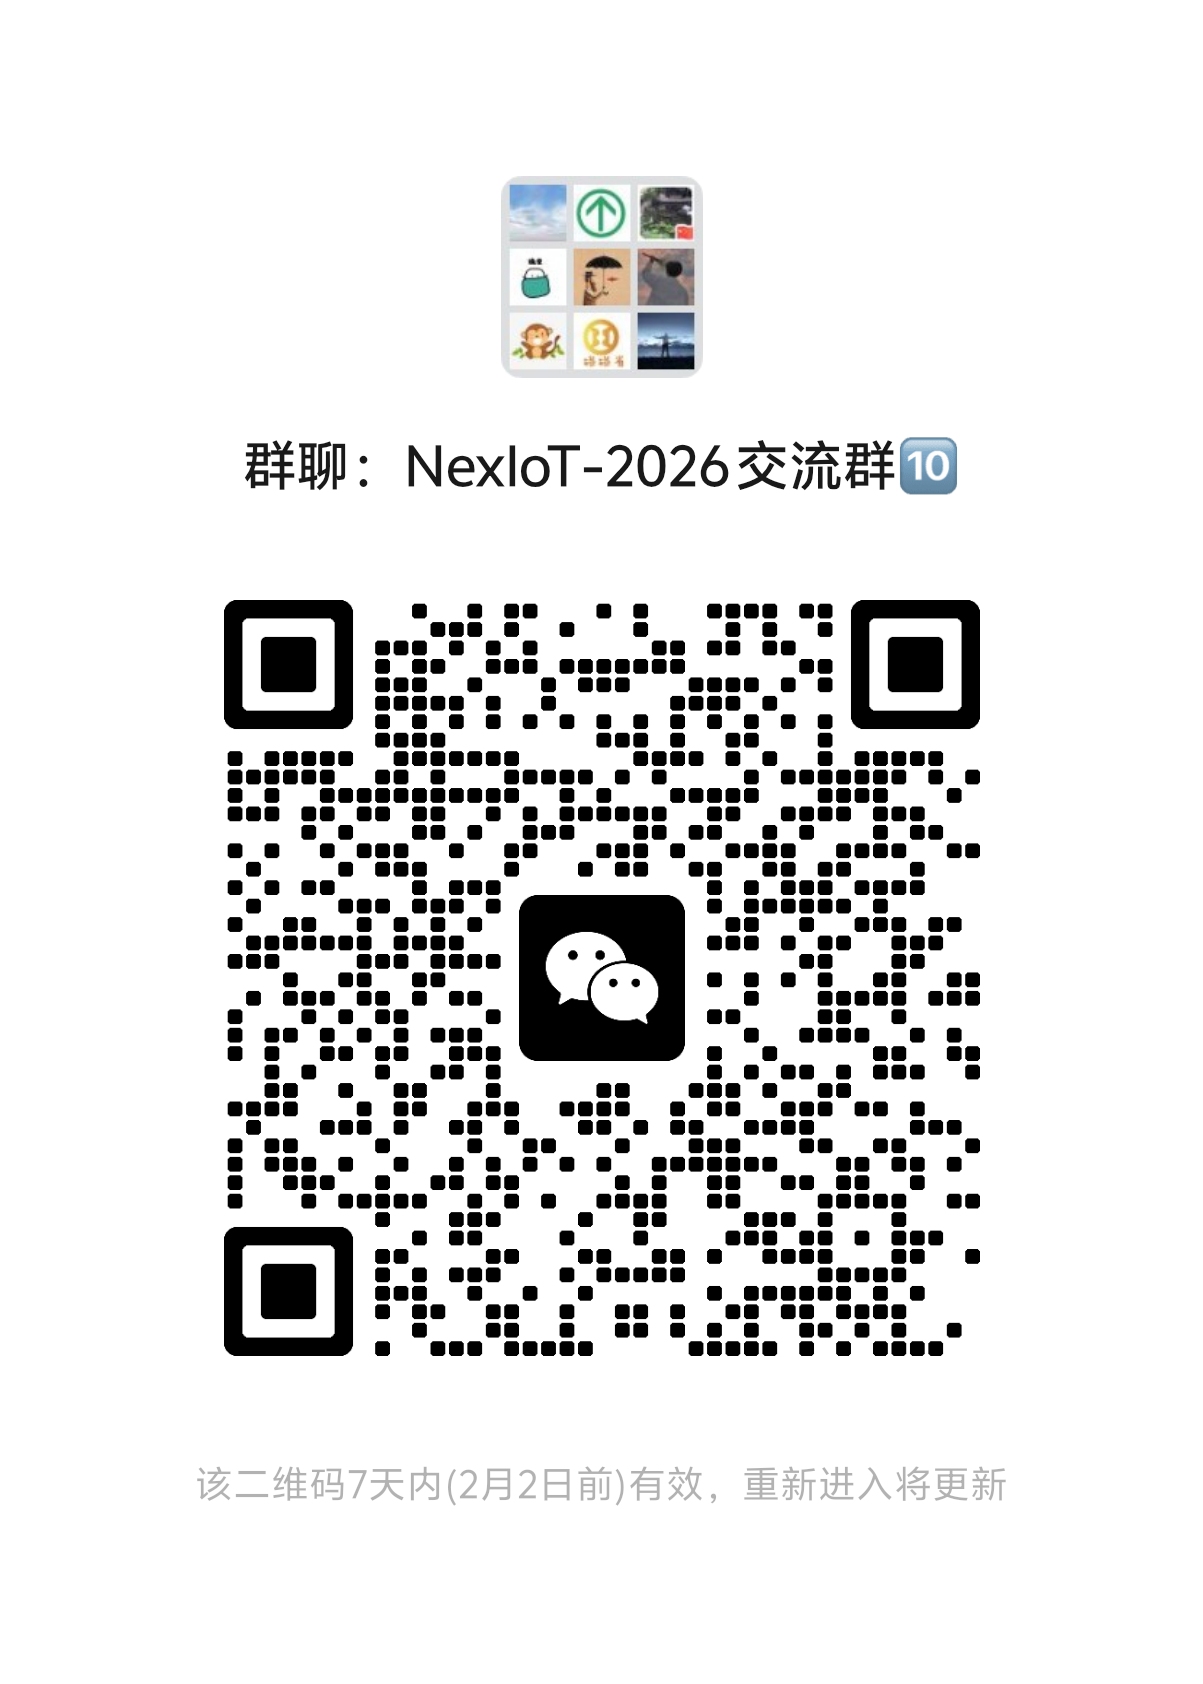
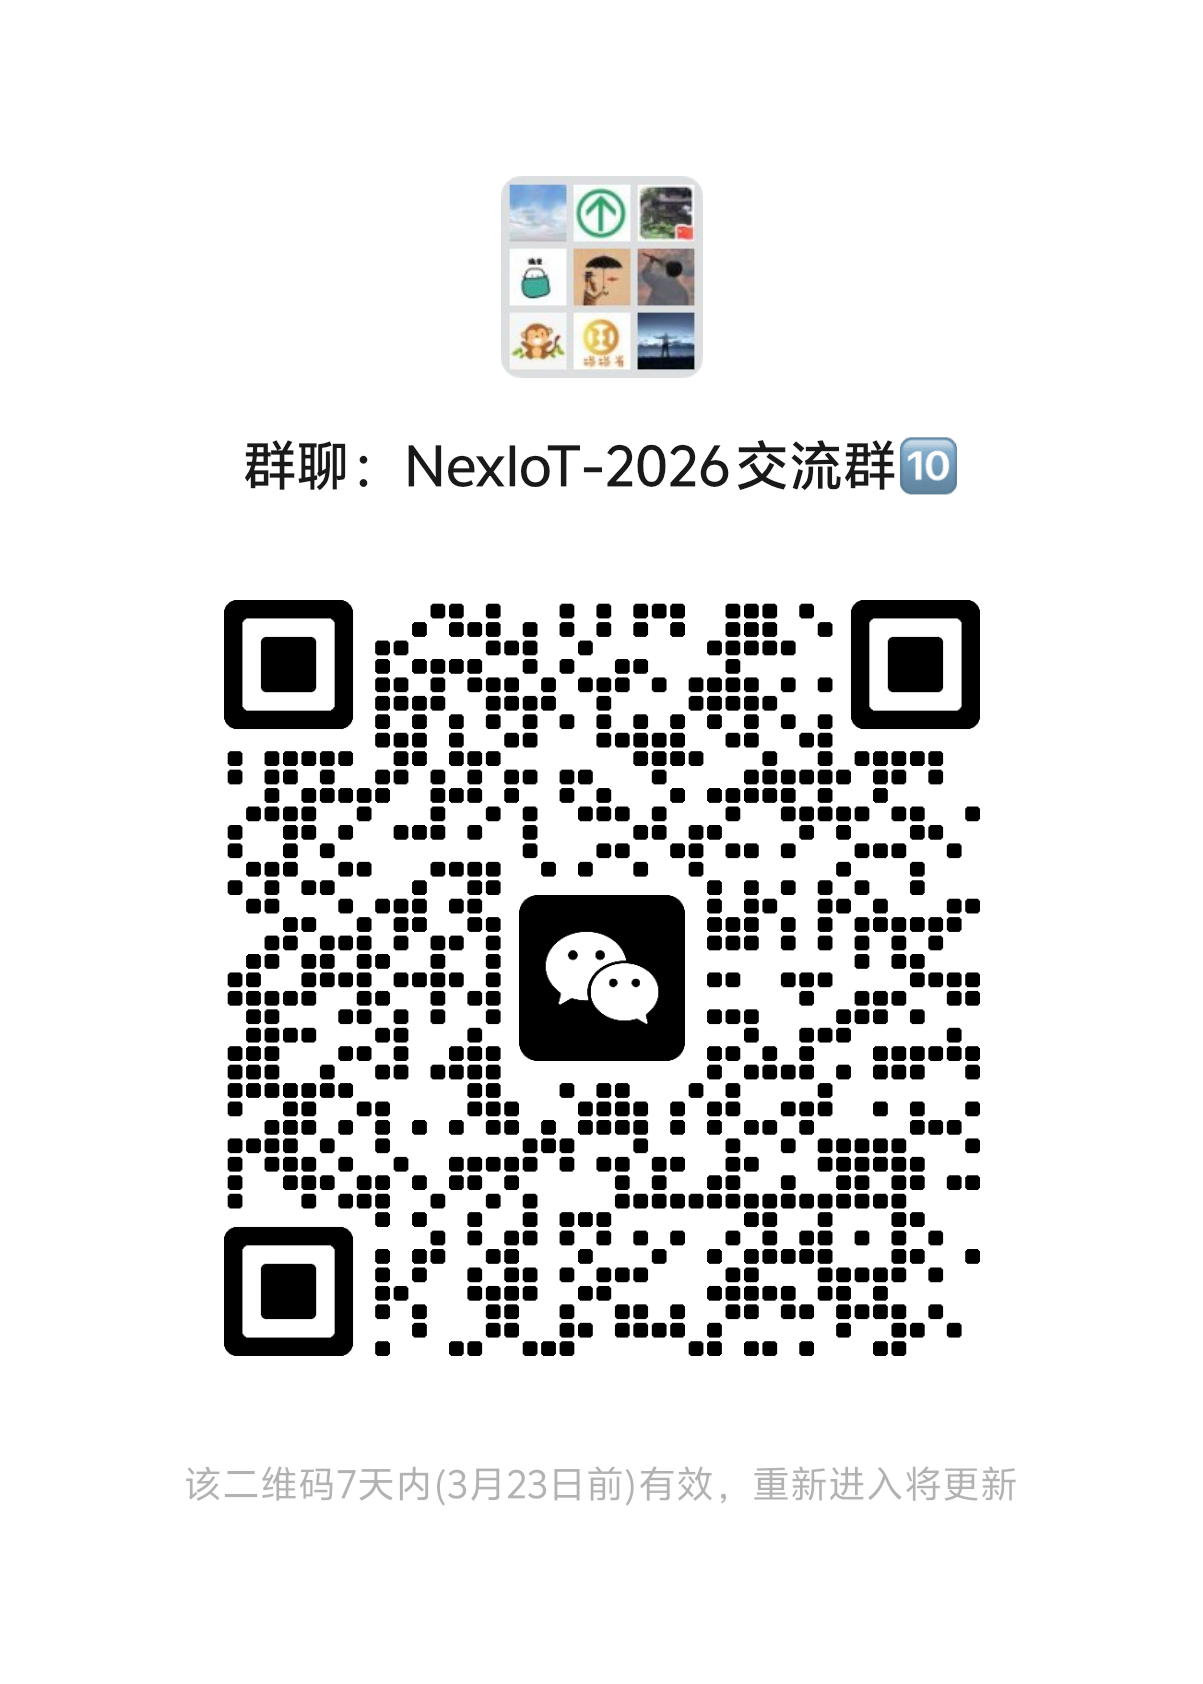
docs(readme): 更新项目路线图与演示信息

diff --git a/README.md b/README.md
@@ -80,10 +80,8 @@
 - **🚀 海康综合安防管理平台**：使用海康平台产品系列集成`（无环境，延期中）`
 - **📱 移动端应用（计划25年12月）**：付费图鸟定小程序，具备指令控制、属性、告警查看，轻量化、多管理员`✅（202512月beta已完成）`
 - **📱 组态大屏集成（计划26年3月）**：组态与nexiot集成`✅（202601月已完成）`
-- **📱 基于nexiot的SAAS应用（计划26年5月）**：SAAS应用+移动端+多租户
-- **📱 onvif（计划26年6月）**：本地ONVIF视频接入
-- **📱 modbus串口（计划26年7月）**：modbus本地串口接入
-- **📱 视频+AI标注（计划26年9月）**：暂时放下未定
+- **📱 奈科斯应用工坊（计划26年5月）**：SAAS应用+移动端+多租户+DIY装修 ✅（202603月已完成）`
+- **📱 通通锁平台**：支持云账号和通通锁账号 ✅（202603月已完成）`
 
 
 
@@ -359,7 +357,7 @@
 
 ### 🌐 社区联系方式
 
-|微信                            | B站                              | 抖音                               | 小程序                           |
+|微信                            | B站                              | 抖音                               | 微信群                           |
 |-------------------------------|---------------------------------|----------------------------------|-------------------------------|
 |  ![微信](/__MACOSX/shot/wx.png) | ![B站](/__MACOSX/shot/bzhan.jpg) | ![抖音](/__MACOSX/shot/douyin.jpg) | ![wx](/__MACOSX/shot/wxq.png) |
 
